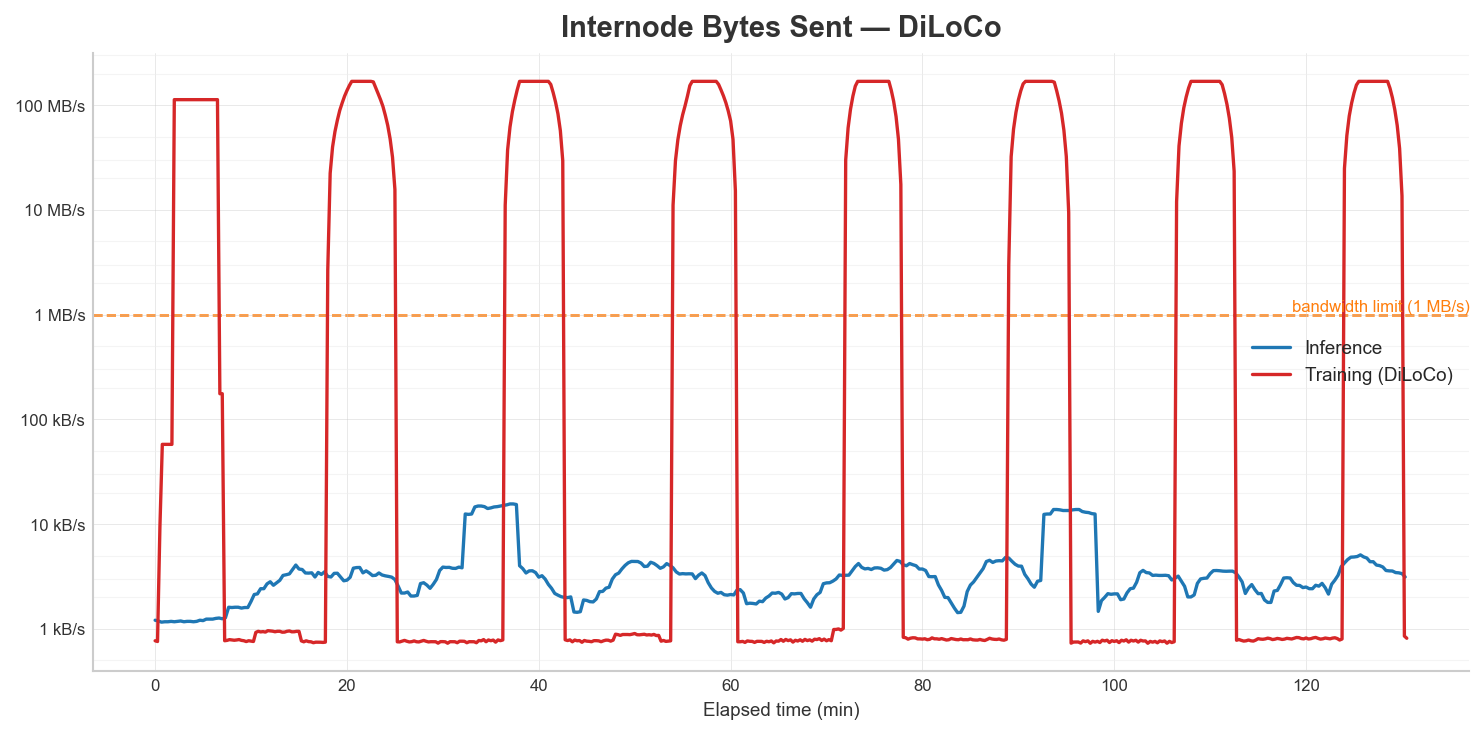
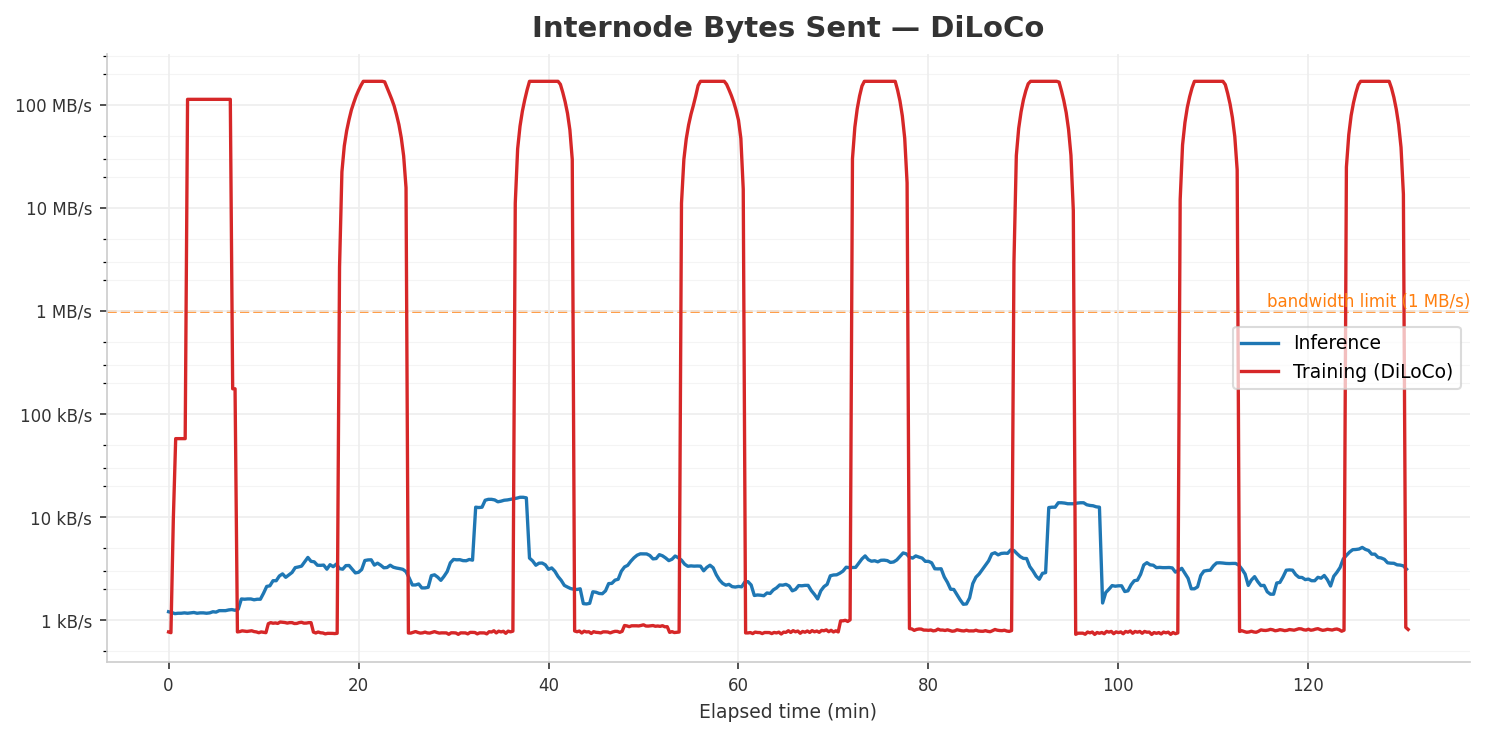
Revert to original theme while keeping functional improvements
Remove seaborn-v0_8-whitegrid theme, restore manual styling (white
facecolor, cccccc spines, eeeeee grid) for consistency with other
paper figures.

diff --git a/scripts/analysis/plot_dashboard.py b/scripts/analysis/plot_dashboard.py
@@ -280,7 +280,6 @@ def load_and_aggregate(
 
 def plot_comparison(inf_folder: Path, train_folder: Path, output_path: Path,
                     title: str = "Inference vs Training (Llama 3.1 8B)") -> None:
-    plt.style.use("seaborn-v0_8-whitegrid")
     INF_COLOR = "#1f77b4"   # blue  — Distributed Inference
     TRAIN_COLOR = "#d62728"  # red   — Training
     THRESH_COLOR = "#ff7f0e"  # orange
@@ -301,6 +300,7 @@ def plot_comparison(inf_folder: Path, train_folder: Path, output_path: Path,
     max_t = min(t_inf_end, t_train_end)
 
     fig, axes = plt.subplots(2, 2, figsize=(12, 7))
+    fig.patch.set_facecolor("white")
 
     for ax, (pattern, panel_title, unit_type, threshold_value, log_scale, diff, use_sum, force_unit) in zip(axes.flat, panels):
         t_inf, v_inf = load_and_aggregate(
@@ -308,6 +308,7 @@ def plot_comparison(inf_folder: Path, train_folder: Path, output_path: Path,
         t_train, v_train = load_and_aggregate(
             train_folder, pattern, max_minutes=max_t, differentiate=diff, use_sum=use_sum)
 
+        ax.set_facecolor("white")
         floor = 1e-3 if unit_type == "packets" else 1.0
         ax.plot(t_inf, np.maximum(v_inf, floor), color=INF_COLOR,
                 linewidth=1.6, label="Inference")
@@ -380,7 +381,8 @@ def plot_comparison(inf_folder: Path, train_folder: Path, output_path: Path,
                 ticker.FuncFormatter(packets_formatter))
 
         ax.spines[["top", "right"]].set_visible(False)
-        ax.grid(True, linewidth=0.4, alpha=0.5)
+        ax.spines[["left", "bottom"]].set_color("#cccccc")
+        ax.grid(True, color="#eeeeee", linewidth=0.8)
 
     fig.suptitle(
         title,
@@ -394,9 +396,8 @@ def plot_comparison(inf_folder: Path, train_folder: Path, output_path: Path,
     fig.legend(handles, labels, loc="upper center", ncol=2, fontsize=9,
                framealpha=0.7, edgecolor="#cccccc",
                bbox_to_anchor=(0.5, 1.0))
-    fig.savefig(output_path, dpi=150, bbox_inches="tight")
+    fig.savefig(output_path, dpi=150, bbox_inches="tight", facecolor="white")
     plt.close(fig)
-    plt.style.use("default")
     print(f"Saved: {output_path}")
 
 
@@ -407,7 +408,6 @@ def plot_internode_bytes(
     title: str = "Internode Bytes Sent",
     threshold: float = 1e6,
 ) -> None:
-    plt.style.use("seaborn-v0_8-whitegrid")
     THRESH_COLOR = "#ff7f0e"
     INF_COLOR = "#1f77b4"
     TRAIN_COLORS = ["#d62728", "#2ca02c", "#9467bd", "#8c564b"]
@@ -419,6 +419,8 @@ def plot_internode_bytes(
     max_t = min(ends)
 
     fig, ax = plt.subplots(figsize=(10, 5))
+    fig.patch.set_facecolor("white")
+    ax.set_facecolor("white")
 
     t_inf, v_inf = load_and_aggregate(inf_folder, pattern, max_minutes=max_t)
     ax.plot(t_inf, np.maximum(v_inf, 1.0), color=INF_COLOR, linewidth=1.6, label="Inference")
@@ -450,12 +452,12 @@ def plot_internode_bytes(
     ax.yaxis.set_major_formatter(ticker.FuncFormatter(adaptive_bytes_formatter))
     ax.legend(fontsize=9, framealpha=0.7, edgecolor="#cccccc")
     ax.spines[["top", "right"]].set_visible(False)
-    ax.grid(True, linewidth=0.4, alpha=0.5)
+    ax.spines[["left", "bottom"]].set_color("#cccccc")
+    ax.grid(True, color="#eeeeee", linewidth=0.8)
 
     fig.tight_layout()
-    fig.savefig(output_path, dpi=150, bbox_inches="tight")
+    fig.savefig(output_path, dpi=150, bbox_inches="tight", facecolor="white")
     plt.close(fig)
-    plt.style.use("default")
     print(f"Saved: {output_path}")
 
 
